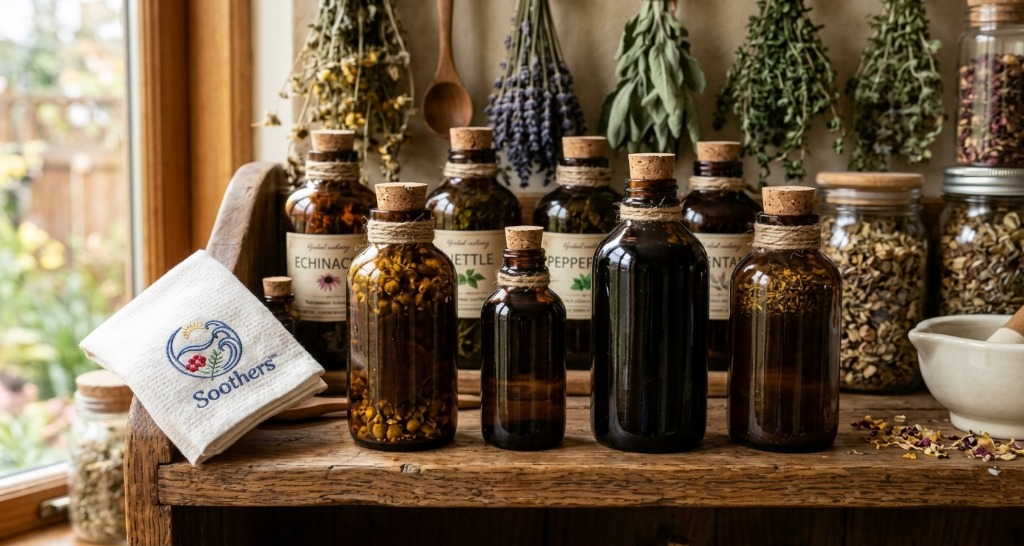
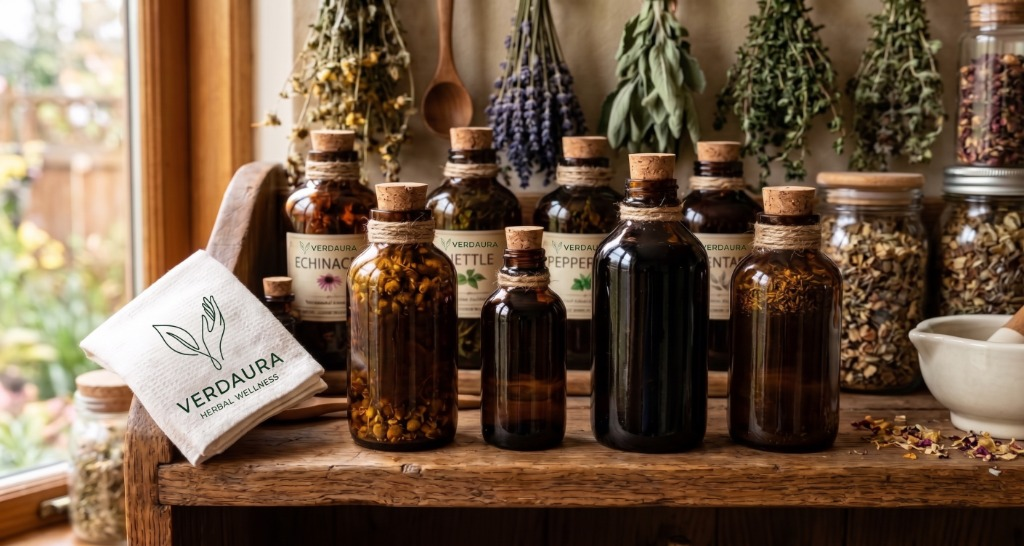
feat: update Custom Formulations parallax background with new Verdaura apothecary drying herbs image

diff --git a/src/components/home/CustomFormulationsParallax.tsx b/src/components/home/CustomFormulationsParallax.tsx
@@ -81,7 +81,7 @@ export const CustomFormulationsParallax: React.FC<CustomFormulationsParallaxProp
         <img
           ref={imageRef}
           src="/images/custom-formulations-parallax.jpg"
-          alt="Verdaura apothecary bottles, herbs and test kitchen"
+          alt="Verdaura handcrafted apothecary bottles, drying lavender and herbs on sunlit rustic studio shelf"
           aria-hidden="true"
           className="w-full h-full object-cover object-center select-none"
           style={{
